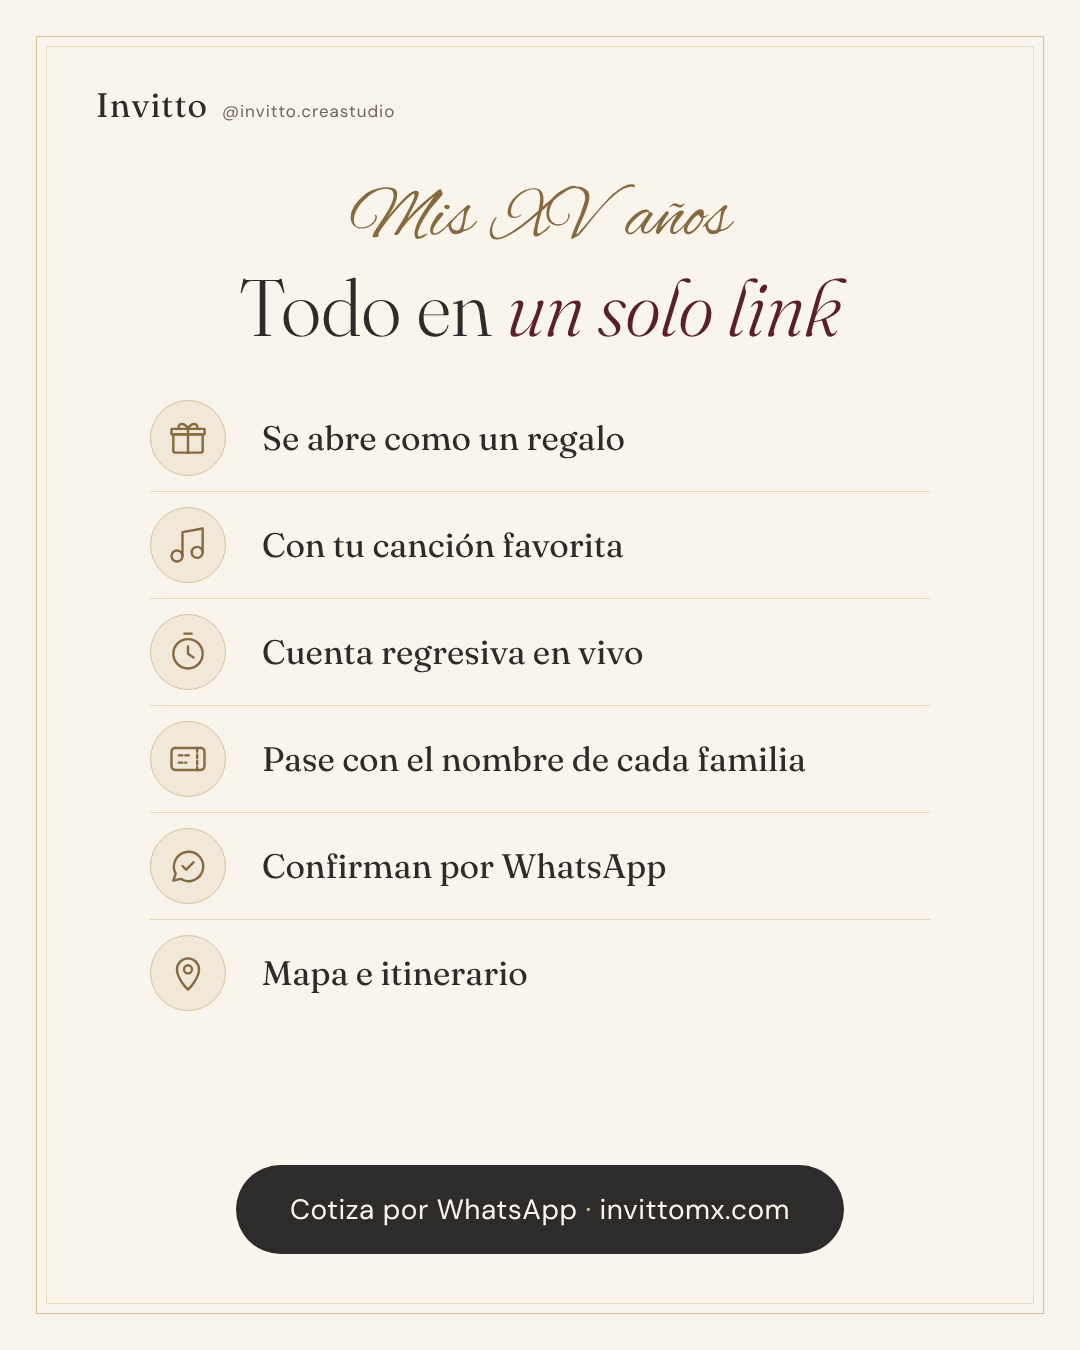
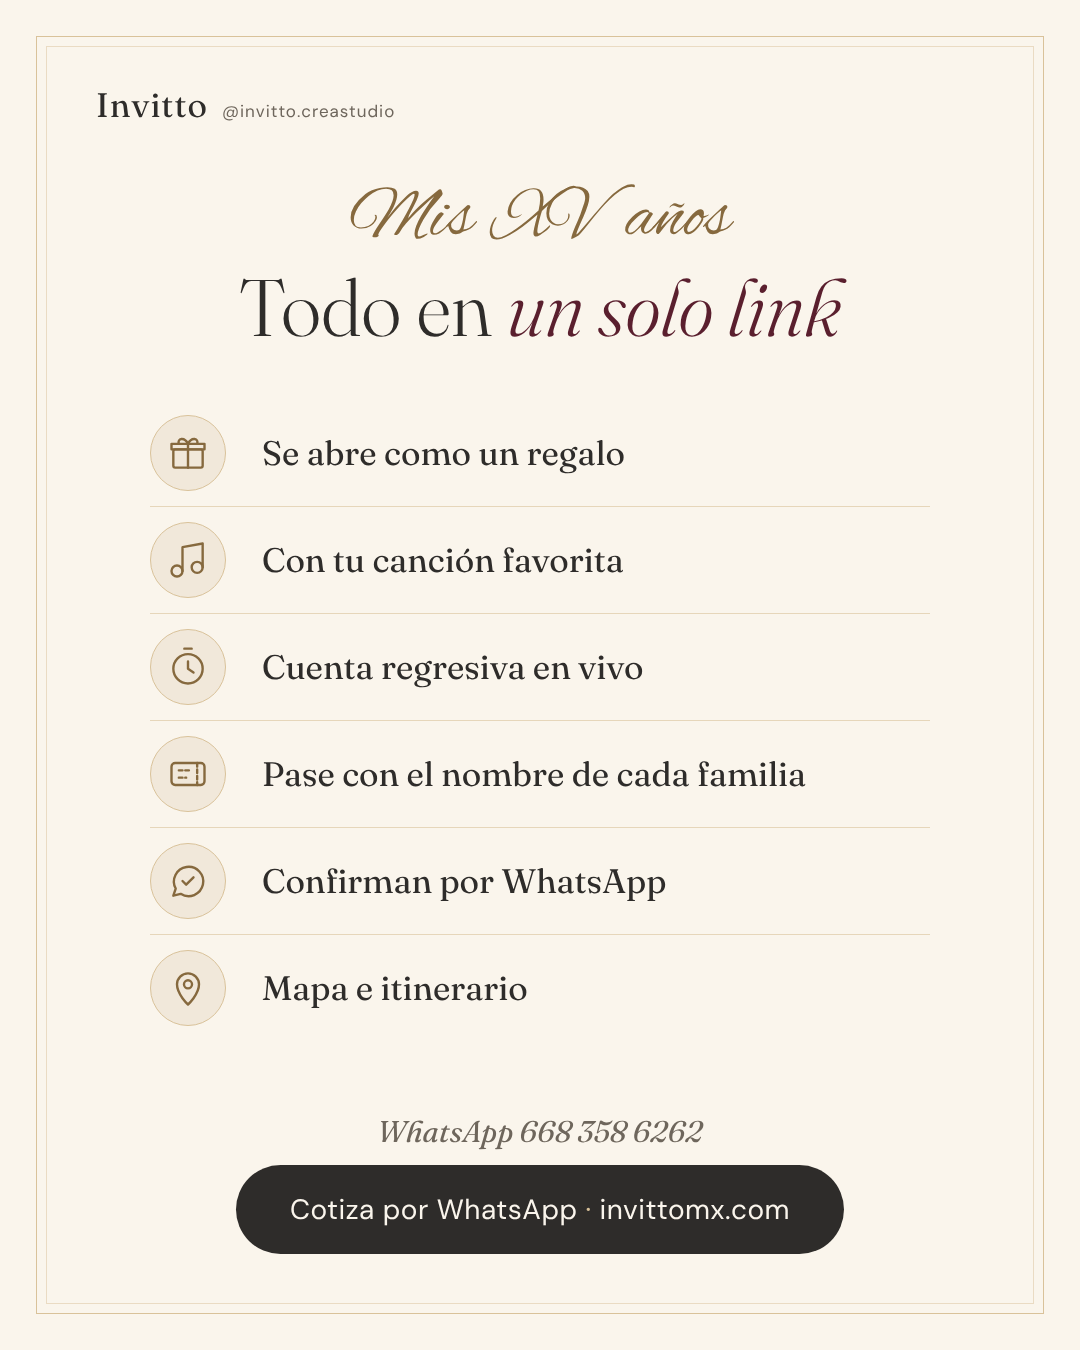
Add remaining Invitto social post images
Claude-Session: https://claude.ai/code/session_01EgrmTncf6G6khRgjzffLsV

diff --git a/invitto-posts/src/xv-2-funciones.html b/invitto-posts/src/xv-2-funciones.html
@@ -12,7 +12,7 @@ body{width:1080px;height:1350px;overflow:hidden;background:var(--iv);font-family
 .kick{position:absolute;top:175px;width:100%;font-size:72px;color:var(--gd)}
 .h{position:absolute;top:258px;width:100%;font-size:80px;font-weight:300}
 .h i{color:var(--w)}
-.rows{position:absolute;top:385px;left:150px;right:150px}
+.rows{position:absolute;top:400px;left:150px;right:150px}
 .row{display:flex;align-items:center;gap:36px;padding:15px 0;border-bottom:1px solid rgba(217,194,154,.6)}
 .row:last-child{border:0}
 .ic{width:76px;height:76px;border-radius:50%;background:var(--ivd);border:1px solid var(--g);display:flex;align-items:center;justify-content:center;flex:none}
@@ -30,5 +30,5 @@ body{width:1080px;height:1350px;overflow:hidden;background:var(--iv);font-family
 <div class='row'><div class='ic'><svg width='44' height='44' viewBox='0 0 24 24' fill='none' stroke='#86693E' stroke-width='1.3' stroke-linecap='round' stroke-linejoin='round'><path d="M4 20l1.3-3.9A8 8 0 1 1 8 19z"/><path d="M9 12l2 2 4-4"/></svg></div><div class='lb serif'>Confirman por WhatsApp</div></div>
 <div class='row'><div class='ic'><svg width='44' height='44' viewBox='0 0 24 24' fill='none' stroke='#86693E' stroke-width='1.3' stroke-linecap='round' stroke-linejoin='round'><path d="M12 21s-6-5.5-6-11a6 6 0 0 1 12 0c0 5.5-6 11-6 11z"/><circle cx="12" cy="10" r="2.2"/></svg></div><div class='lb serif'>Mapa e itinerario</div></div>
 </div>
-<div class="cta">Cotiza por WhatsApp <span>·</span> invittomx.com</div>
+<div style="position:absolute;bottom:200px;width:100%;text-align:center;font-family:Fraunces,serif;font-style:italic;font-size:30px;color:var(--mu)">WhatsApp 668 358 6262</div><div class="cta">Cotiza por WhatsApp <span>·</span> invittomx.com</div>
 </body></html>
